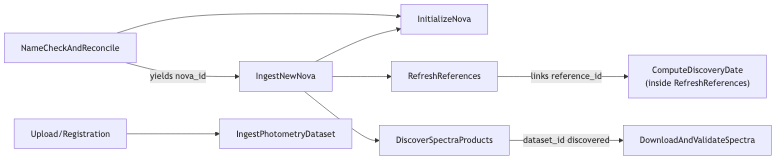
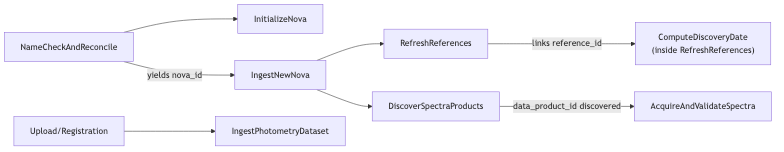
docs(execution): add attempt persistence + cooldown policy and update execution view

diff --git a/docs/execution/execution-governance.md b/docs/execution/execution-governance.md
@@ -3,21 +3,80 @@
 This document defines Step Functions execution conventions for Nova Cat workflows.
 It is intentionally “code-adjacent” and designed to be translated into definitions later.
 
+---
+
 ## Standard Retry & Backoff Conventions
+
 ### Default (MVP)
+
 - MaxAttempts: 3
 - Backoff: 2s, 10s, 30s
 - Retry only errors classified as RETRYABLE
 - No unbounded retries
 
-### Long-running download tasks (MVP)
+### Long-running acquisition tasks (MVP)
+
 - Timeout: up to 15 minutes
 - MaxAttempts: 3
 - Backoff: 10s, 60s, 180s
 - Checksum mismatch is NOT retryable (Quarantine)
+- Explicit throttling signals (e.g., HTTP 429) are RETRYABLE
+
+---
+
+## Acquisition Attempt Persistence & Cooldown Policy (MVP)
+
+To prevent repeated hammering of external providers, acquisition workflows MUST persist attempt metadata on each `data_product_id`.
+
+### Persisted Fields (Minimum Required)
+
+Each data product SHOULD persist:
+
+- `validation_status`
+  - `DISCOVERED | VALIDATED | QUARANTINED | FAILED`
+- `attempt_count_total`
+- `last_attempt_at`
+- `last_attempt_outcome`
+  - `SUCCESS | RETRYABLE_FAILURE | TERMINAL_FAILURE | QUARANTINE`
+- `last_error_fingerprint`
+- `next_eligible_attempt_at`  ← primary anti-ping control
+- `last_successful_fingerprint` (when validated)
+
+Detailed attempt diagnostics belong in JobRun/Attempt records.
+
+---
+
+### Cooldown Enforcement
+
+Before acquisition:
+
+1. If `validation_status == VALIDATED`
+   → short-circuit success (`SKIPPED_DUPLICATE`)
+2. If `now < next_eligible_attempt_at`
+   → short-circuit success (`SKIPPED_BACKOFF`)
+3. Otherwise proceed to acquisition
+
+---
+
+### Backoff Strategy
+
+On RETRYABLE acquisition failure:
+
+- Increment `attempt_count_total`
+- Compute new cooldown:
+- next_eligible_attempt_at = now + backoff(attempt_count_total)
+- Persist updated fields
+
+Backoff SHOULD be capped exponential.
+
+Providers MAY override default backoff parameters.
+
+---
 
 ## Error Taxonomy
+
 ### RETRYABLE
+
 Examples:
 - throttling
 - transient network errors
@@ -25,44 +84,71 @@ Examples:
 - 5xx dependency/service failures
 
 ### TERMINAL
+
 Examples:
 - schema_version unsupported
-- missing/invalid UUIDs (nova_id/dataset_id/reference_id)
+- missing/invalid UUIDs (nova_id/data_product_id/reference_id)
 - invalid required fields (e.g., missing locator/provenance)
 - logical impossibility (e.g., resolved object explicitly not a classical nova)
 
 ### QUARANTINE
+
 Examples:
 - ambiguous name resolution matches
 - spectra content fails integrity/format/domain sanity checks
 - provider returns malformed or inconsistent records requiring review
+- unknown or incompatible FITS profile
+
+---
 
 ## Correlation ID Rules
+
 - Every workflow input SHOULD include `correlation_id`.
-- If absent, the workflow MUST create one (e.g., UUID) and propagate it.
+- If absent, the workflow MUST create one (UUID) and propagate it.
 - `correlation_id` MUST be included in:
-  - all published downstream events
-  - all JobRun/Attempt records
-  - structured logs
+- all published downstream events
+- all JobRun/Attempt records
+- structured logs
+
+---
 
 ## Idempotency Key Rules
+
 ### Workflow-level
+
 - Every workflow defines a deterministic idempotency key.
 - Workflows that poll/refresh external sources MUST be time-bucketed.
 
 ### Step-level
-- Each side-effecting task defines a dedupe key where duplicates are harmful/costly:
-  - dataset identity assignment
-  - downloads
-  - validation result recording
-  - linking relationships
+
+Each side-effecting task defines a dedupe key where duplicates are harmful/costly:
+
+- data product identity assignment
+- acquisition (AcquireArtifact)
+- validation result recording
+- linking relationships
+
+Idempotency keys are strictly internal and MUST NOT be part of event payload schemas.
+
+---
 
 ## Concurrency Guidance (MVP)
-- DiscoverSpectraProducts provider Map MaxConcurrency: 1 (sequential providers)
-- Reference reconciliation Map MaxConcurrency: 5 (tunable)
-- Principle: prefer lower concurrency to reduce throttling and retries (cost + stability)
+
+- DiscoverSpectraProducts provider Map:
+- MaxConcurrency: 1 (sequential providers)
+- Reference reconciliation Map:
+- MaxConcurrency: 5 (tunable)
+- AcquireAndValidateSpectra:
+- One `data_product_id` per execution (atomic Mode 1)
+
+Principle:
+Prefer lower concurrency to reduce throttling and retries (cost + stability).
+
+---
 
 ## Throttling Principles
+
 - Treat throttling as RETRYABLE.
 - Prefer reducing concurrency over increasing retries.
+- Persist cooldown windows to prevent repeated provider hammering.
 - Record provider-level failure summaries in JobRun output for diagnosis.

diff --git a/docs/diagrams/execution-view.md b/docs/diagrams/execution-view.md
@@ -3,12 +3,12 @@ flowchart LR
   NC[NameCheckAndReconcile] --> IN[InitializeNova]
   NC -->|yields nova_id| NEW[IngestNewNova]
 
-  NEW --> IN
   NEW --> RR[RefreshReferences]
   NEW --> DSP[DiscoverSpectraProducts]
 
   RR -->|links reference_id| RR2["ComputeDiscoveryDate</br>(inside RefreshReferences)"]
-  DSP -->|dataset_id discovered| DVS[DownloadAndValidateSpectra]
+
+  DSP -->|data_product_id discovered| AAV[AcquireAndValidateSpectra]
 
   UP[Upload/Registration] --> IPD[IngestPhotometryDataset]
 

diff --git a/docs/specs/spectra-fits-profiles.md b/docs/specs/spectra-fits-profiles.md
@@ -34,7 +34,7 @@ Workflow involvement:
 
 - `discover_spectra_products`
   - Persists provider, locator, and format hints.
-- `download_and_validate_spectra`
+- `acquire_and_validate_spectra`
   - Performs acquisition.
   - Applies FITS Profile.
   - Validates and normalizes into canonical internal model.
